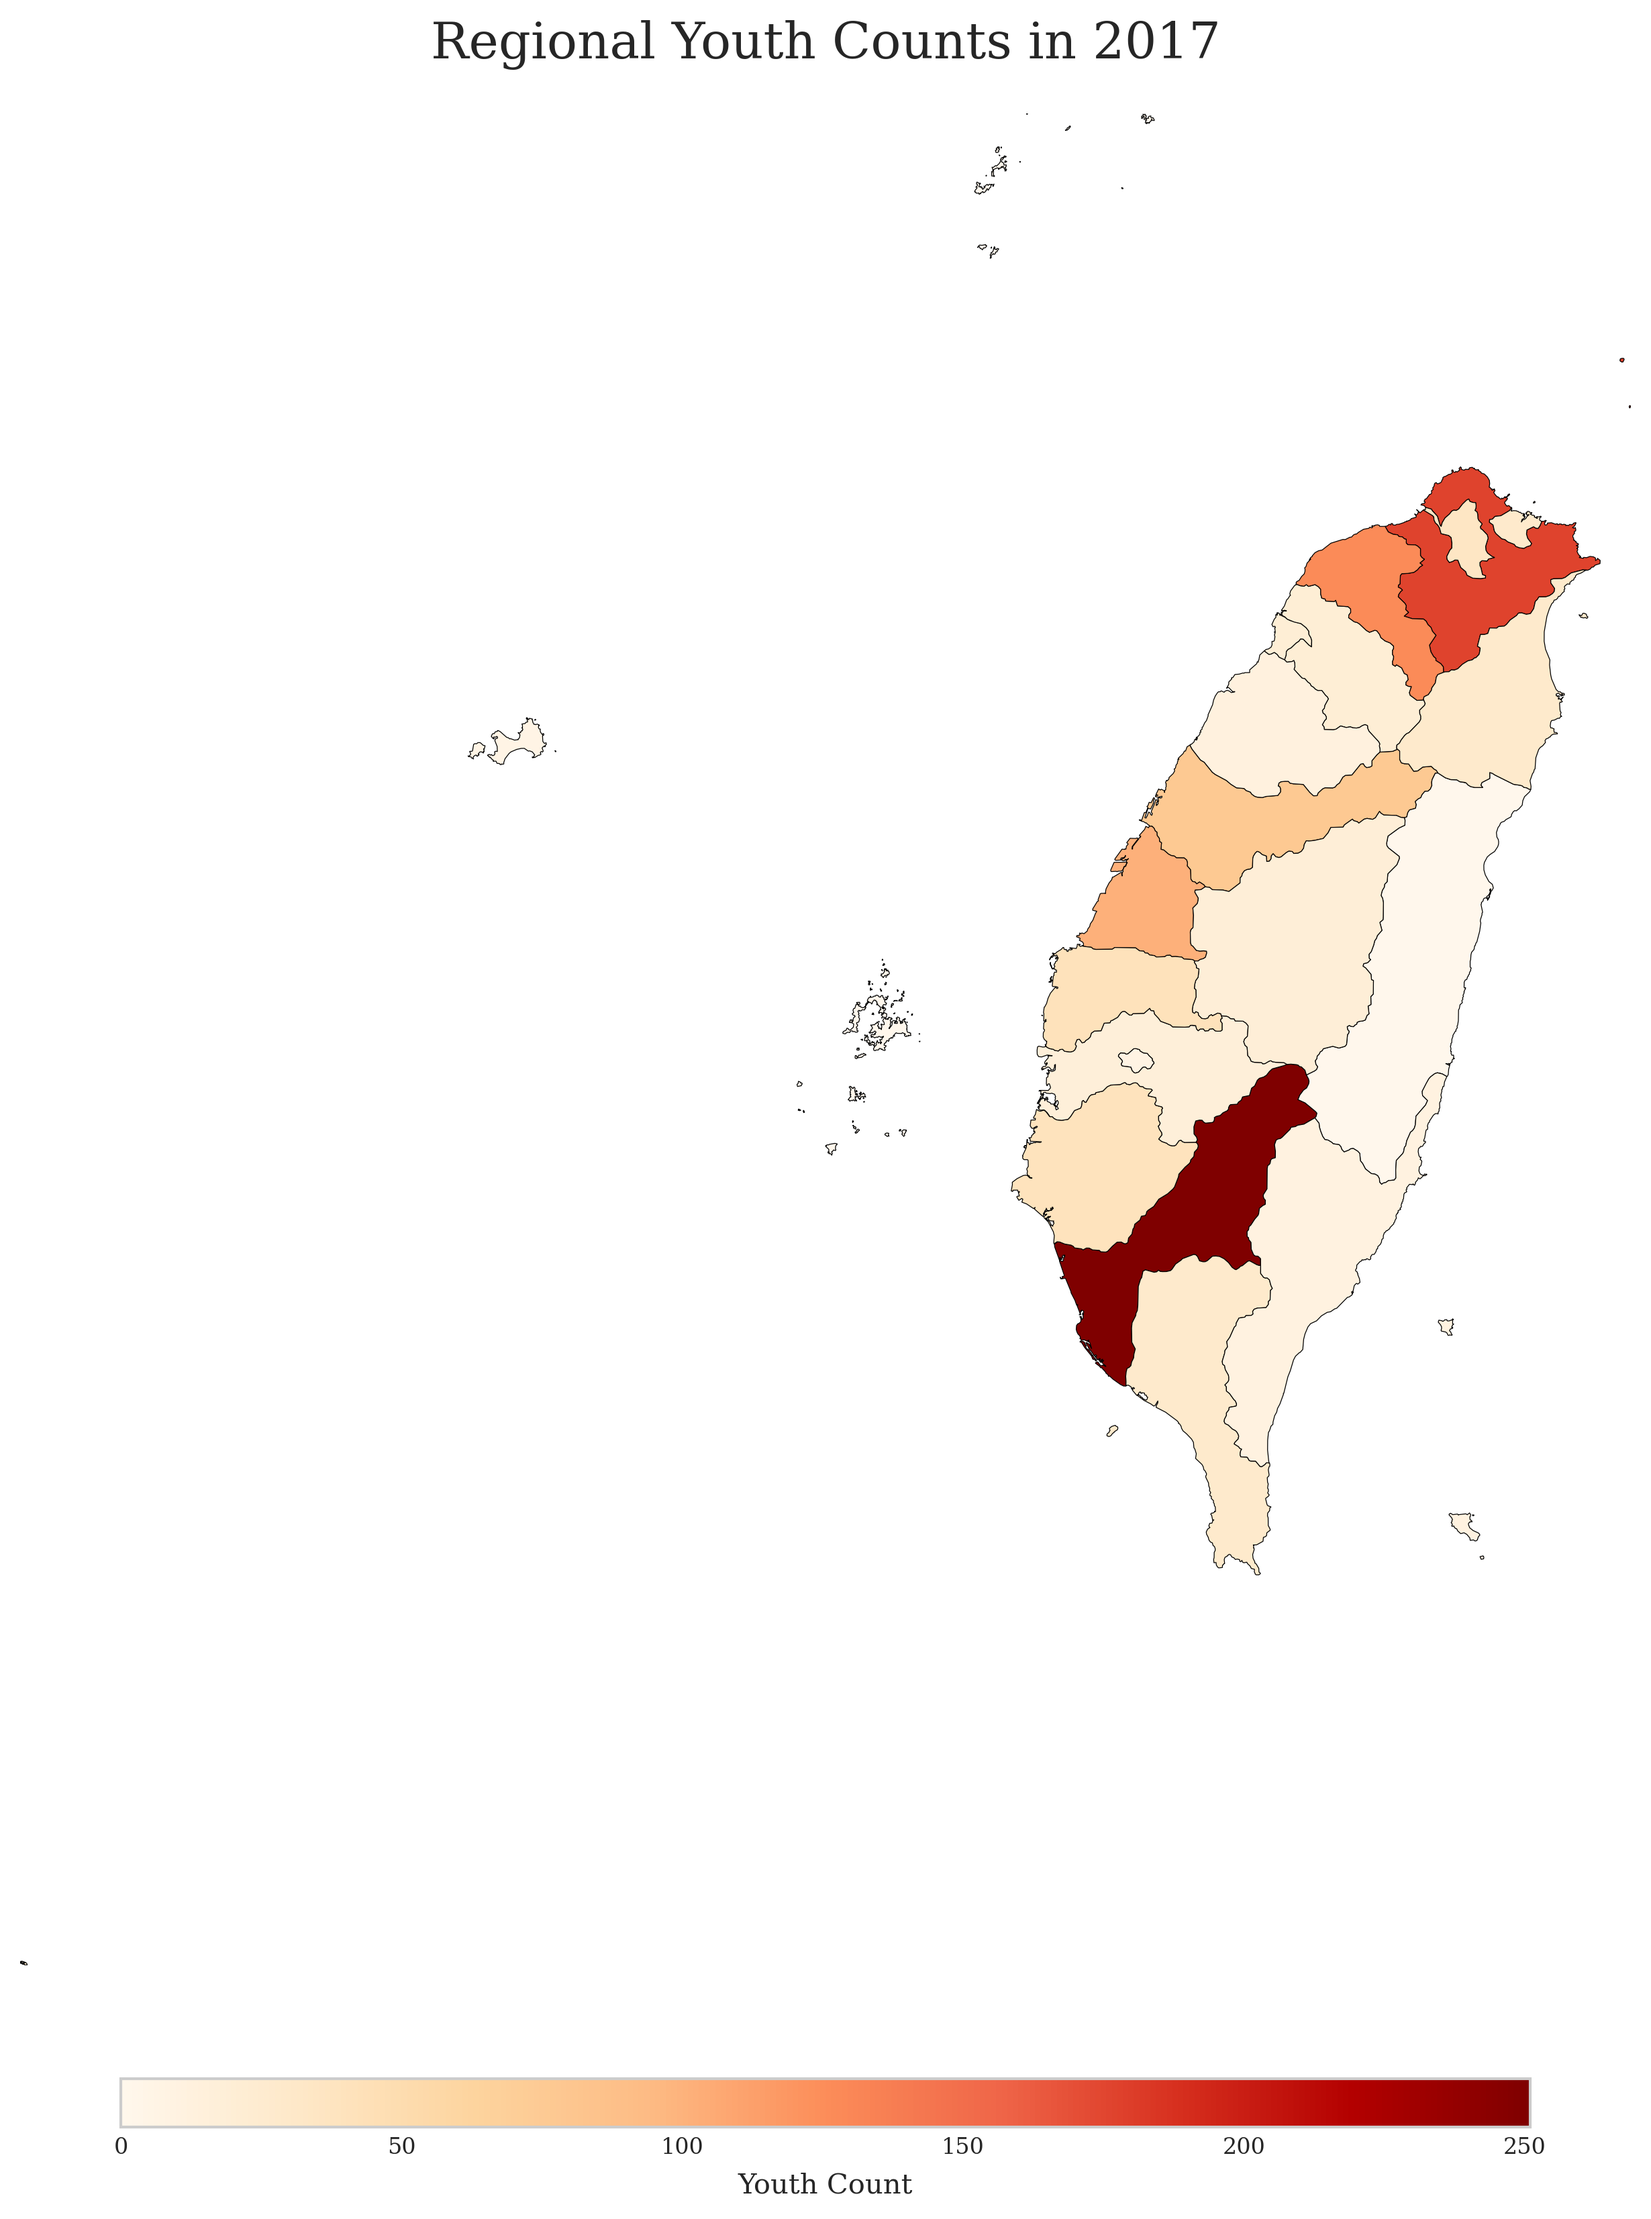
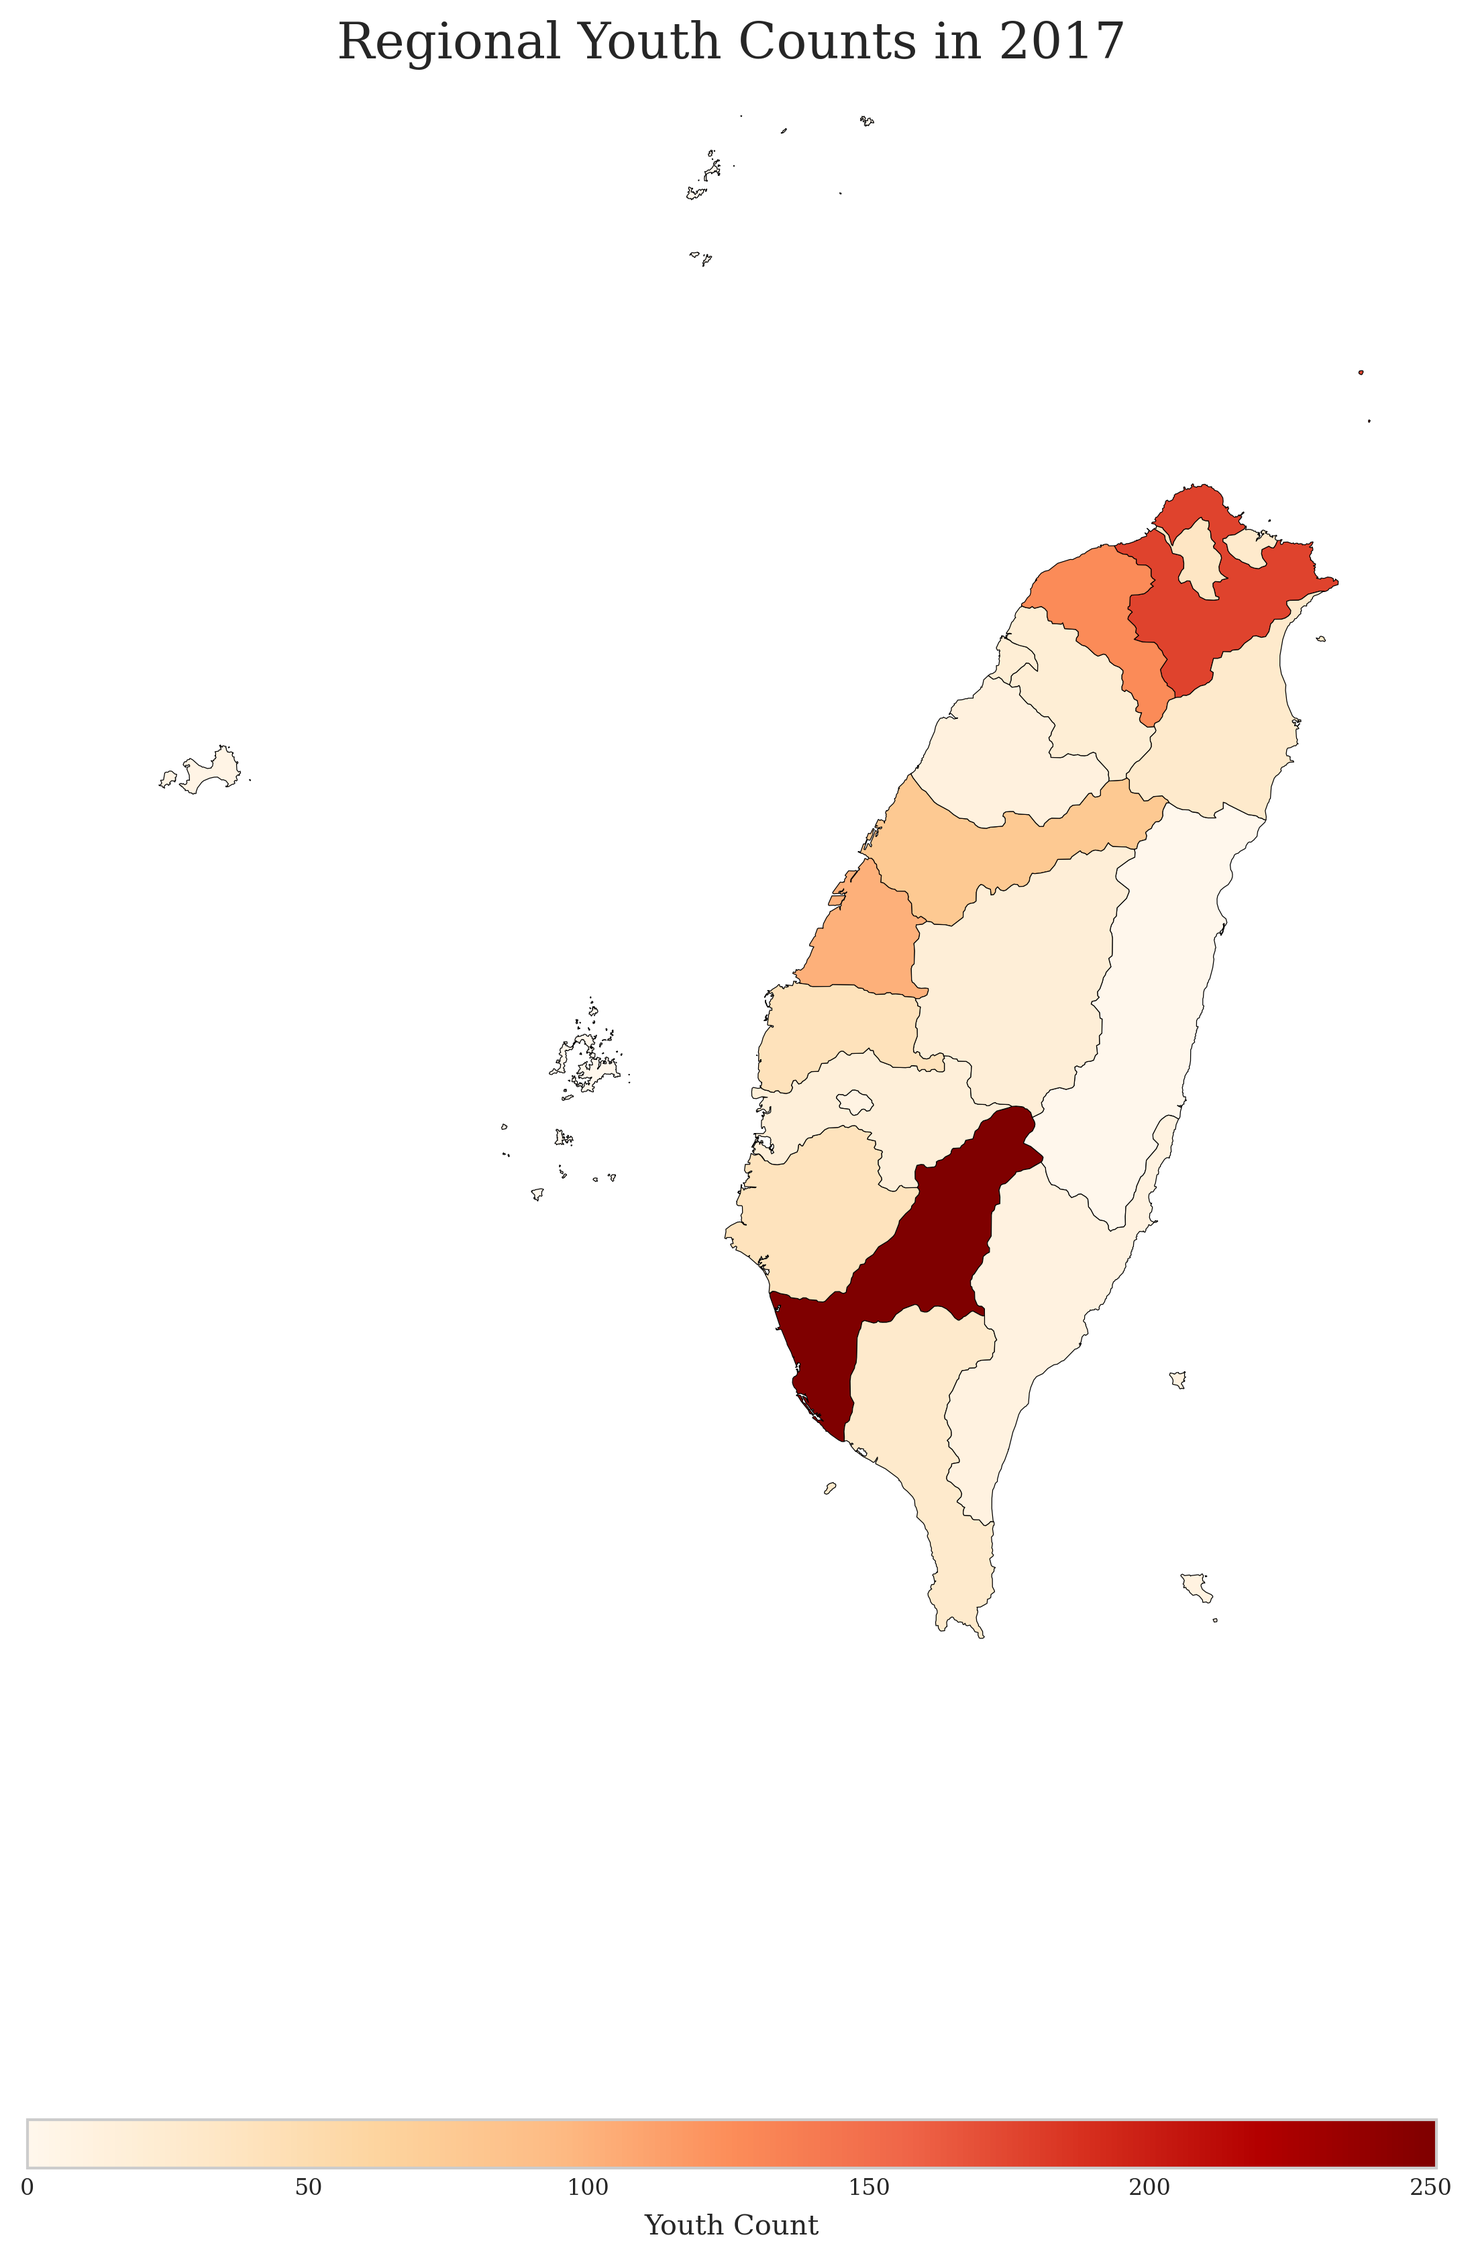
upf

diff --git a/maps2.py b/maps2.py
@@ -191,73 +191,137 @@ def create_gender_distribution_plot(melted_data):
     plt.close()
 
 def create_regional_map(melted_data, taiwan_map, year):
-    """Create and save a publication-ready regional map with insets for small islands"""
-    # Data preparation (previous code remains the same)
+    """Create and save a publication-ready regional map for a specific year"""
+    # Filter and prepare data
+    yearly_data = melted_data[melted_data['Year'] == year].groupby('Region')['Count'].sum().reset_index()
+    name_mapping = create_region_mapping()
+    yearly_data['MappedRegion'] = yearly_data['Region'].map(name_mapping)
+    yearly_data.dropna(subset=['MappedRegion'], inplace=True)
     
-    # Create figure with room for insets
-    fig = plt.figure(figsize=(12, 15), dpi=300)
+    # Merge data with shapefile
+    merged = taiwan_map.set_index('NAME_2').join(yearly_data.set_index('MappedRegion'))
     
-    # Main map (90% of height)
-    ax_main = fig.add_axes([0.1, 0.2, 0.8, 0.7])
+    if 'Count' not in merged.columns:
+        print(f"Warning: No data for year {year}")
+        return
+
+    # Create figure with custom size and DPI for publication quality
+    fig = plt.figure(figsize=(10, 12), dpi=300)
     
-    # Plot main map
+    # Create main map
+    ax = fig.add_axes([0.1, 0.1, 0.8, 0.8])  # [left, bottom, width, height]
+    plt.title(f"Regional Youth Counts in {year}", fontsize=18, pad=20)
+    plt.axis('off')
+    minx, miny, maxx, maxy = taiwan_map.total_bounds
+    print(minx, miny, maxx, maxy)
+    buffer_x = (maxx - minx) * 0.001
+    buffer_y = (maxy - miny) * 0.001
+    ax.set_xlim(118 - buffer_x, maxx + buffer_x)
+    ax.set_ylim(miny - buffer_y, maxy + buffer_y)
+    # Plot the map with improved aesthetics
     merged.plot(
         column='Count',
         cmap='OrRd',
-        ax=ax_main,
+        ax=ax,
         edgecolor='black',
         linewidth=0.3,
         missing_kwds={'color': 'lightgrey'},
         legend=False
     )
-    
-    # Add inset for Kinmen & Matsu (top right)
-    ax_kinmen = fig.add_axes([0.7, 0.75, 0.25, 0.2])
-    kinmen_matsu = merged[merged['NAME_1'].isin(['Kinmen', 'Lienchiang'])]
-    if not kinmen_matsu.empty:
-        kinmen_matsu.plot(
-            column='Count',
-            cmap='OrRd',
-            ax=ax_kinmen,
-            edgecolor='black',
-            linewidth=0.3
-        )
-    ax_kinmen.set_title('Kinmen & Matsu', fontsize=8)
-    
-    # Add inset for Penghu (bottom right)
-    ax_penghu = fig.add_axes([0.7, 0.15, 0.25, 0.2])
-    penghu = merged[merged['NAME_1'] == 'Penghu']
-    if not penghu.empty:
-        penghu.plot(
-            column='Count',
-            cmap='OrRd',
-            ax=ax_penghu,
-            edgecolor='black',
-            linewidth=0.3
-        )
-    ax_penghu.set_title('Penghu Islands', fontsize=8)
-    
-    # Colorbar at bottom
+
+    # Add a smaller, horizontally oriented colorbar
     sm = plt.cm.ScalarMappable(
         cmap='OrRd',
         norm=plt.Normalize(vmin=merged['Count'].min(), vmax=merged['Count'].max())
     )
     sm._A = []
     
-    # Smaller colorbar
-    cax = fig.add_axes([0.3, 0.1, 0.4, 0.02])
+    # Add colorbar with custom size and position
+    cax = fig.add_axes([0.15, 0.05, 0.7, 0.02])  # [left, bottom, width, height]
     cbar = fig.colorbar(sm, cax=cax, orientation='horizontal')
     cbar.ax.tick_params(labelsize=8)
     cbar.set_label('Youth Count', fontsize=10, labelpad=5)
-    
-    # Main title
-    plt.suptitle(f"Regional Youth Counts in {year}", y=0.95, fontsize=16)
-    
-    # Remove axes for cleaner look
-    for ax in [ax_main, ax_kinmen, ax_penghu]:
-        ax.axis('off')
-    
     plt.savefig(f"plots/regional_map_{year}.png", bbox_inches='tight')
+    plt.close()
+def create_gender_variation_map(melted_data, taiwan_map, year):
+    """Create and save a publication-ready gender variation map for a specific year or aggregate"""
+    # Aggregate data by Region and Gender
+    if year == 'aggregate':
+        aggregated_data = melted_data.groupby(['Region', 'Gender'])['Count'].sum().reset_index()
+        title_suffix = 'Aggregate (2017-2023)'
+    else:
+        aggregated_data = melted_data[melted_data['Year'] == year].groupby(['Region', 'Gender'])['Count'].sum().reset_index()
+        title_suffix = f"{year}"
+    
+    # Create the region mapping
+    name_mapping = create_region_mapping()
+    aggregated_data['MappedRegion'] = aggregated_data['Region'].map(name_mapping)
+    aggregated_data.dropna(subset=['MappedRegion'], inplace=True)
+    
+    # Merge data with shapefile
+    merged = taiwan_map.merge(
+        aggregated_data,
+        left_on='NAME_2',
+        right_on='MappedRegion',
+        how='left'
+    )
+    
+    # Handle missing data
+    merged['Count'] = merged['Count'].fillna(0)
+    
+    # Initialize the figure with two subplots side by side
+    fig, axes = plt.subplots(1, 2, figsize=(20, 10), dpi=300)
+    
+    # Define common normalization for color scale
+    norm = plt.Normalize(vmin=merged['Count'].min(), vmax=merged['Count'].max())
+    cmap = 'OrRd'
+    
+    # Plot Male map
+    male_data = merged[merged['Gender'] == 'Male']
+    male_data.plot(
+        column='Count',
+        cmap=cmap,
+        linewidth=0.3,
+        edgecolor='black',
+        ax=axes[0],
+        norm=norm,
+        legend=False
+    )
+    axes[0].set_title('Male Youth Count', fontsize=16)
+    axes[0].axis('off')
+    
+    # Plot Female map
+    female_data = merged[merged['Gender'] == 'Female']
+    female_data.plot(
+        column='Count',
+        cmap=cmap,
+        linewidth=0.3,
+        edgecolor='black',
+        ax=axes[1],
+        norm=norm,
+        legend=False
+    )
+    axes[1].set_title('Female Youth Count', fontsize=16)
+    axes[1].axis('off')
+    
+    # Add a unified colorbar below the subplots
+    sm = plt.cm.ScalarMappable(cmap=cmap, norm=norm)
+    sm._A = []
+    cbar = fig.colorbar(sm, ax=axes, orientation='horizontal', fraction=0.02, pad=0.1)
+    cbar.set_label('Youth Count', fontsize=14)
+    cbar.ax.tick_params(labelsize=10)
+    
+    # Set the main title
+    plt.suptitle(f"Gender Variation in Youth Counts - {title_suffix}", fontsize=18, y=0.95)
+    
+    # Adjust layout for better spacing
+    # plt.tight_layout(rect=[0, 0.03, 1, 0.95])
+    
+    # Save the figure
+    if year == 'aggregate':
+        plt.savefig(f"plots/gender_variation_map_aggregate.png", bbox_inches='tight')
+    else:
+        plt.savefig(f"plots/gender_variation_map_{year}.png", bbox_inches='tight')
     plt.close()
 def create_regional_trends(melted_data):
     """Create and save regional trends plot"""
@@ -278,7 +342,6 @@ def create_regional_trends(melted_data):
     plt.savefig('plots/regional_trends.png', bbox_inches='tight')
     plt.close()
 
-# Part 4: Main Execution
 def main():
     # Load and prepare data
     print("Loading and cleaning data...")
@@ -305,9 +368,16 @@ def main():
     create_yearly_trend_plot(melted_data)
     create_gender_distribution_plot(melted_data)
 
+    # Generate regional maps for each year
     for year in sorted(data['Year'].unique()):
-        print(f"Creating map for year {year}...")
+        print(f"Creating regional map for year {year}...")
         create_regional_map(melted_data, taiwan_map, year)
+        print(f"Creating gender variation map for year {year}...")
+        create_gender_variation_map(melted_data, taiwan_map, year)
+
+    # Generate aggregate gender variation map
+    print("Creating aggregate gender variation map...")
+    create_gender_variation_map(melted_data, taiwan_map, 'aggregate')
 
     create_regional_trends(melted_data)
 
@@ -316,6 +386,5 @@ def main():
     summary_stats.to_csv('data/summary_statistics.csv')
 
     print("All visualizations have been generated and saved!")
-
 if __name__ == "__main__":
     main()
